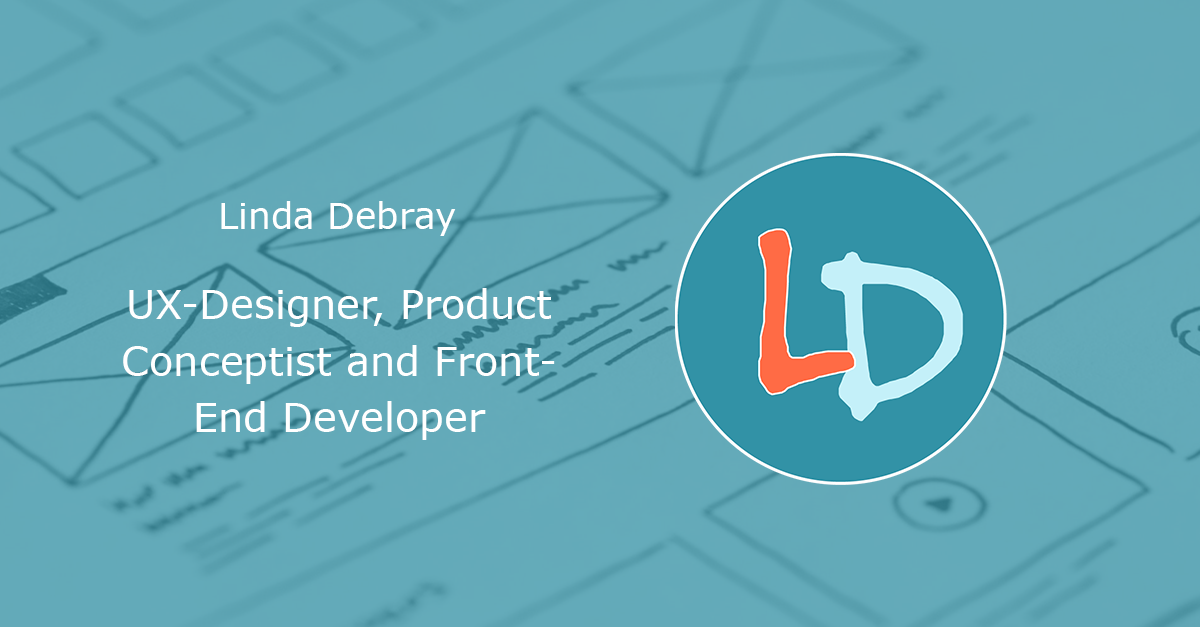
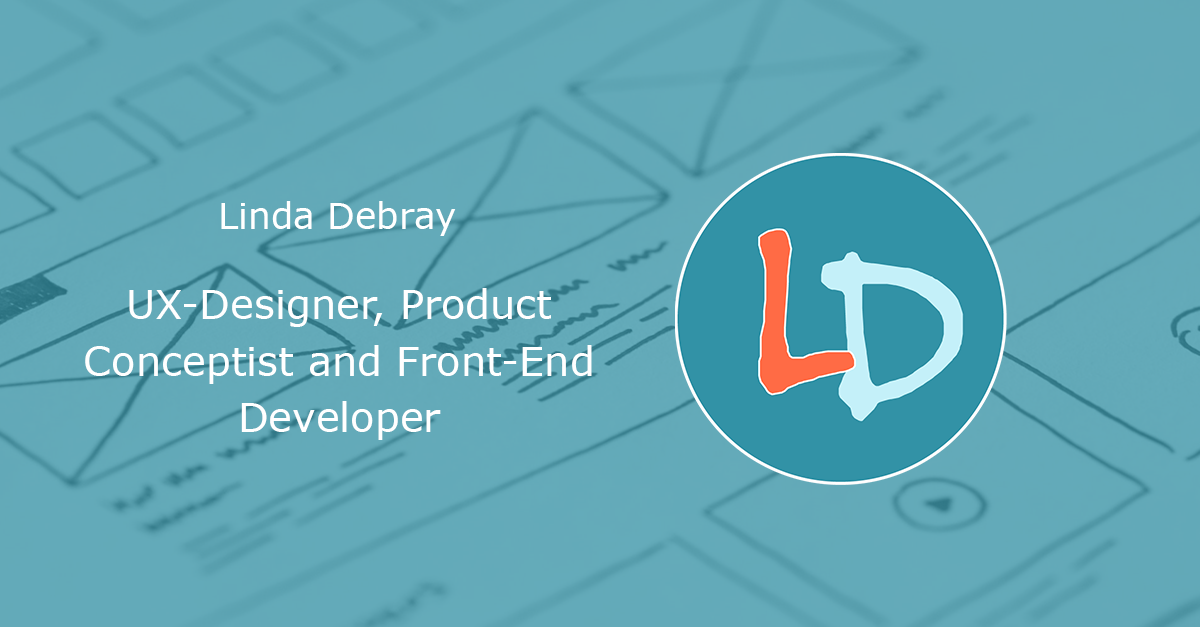
change open graph image, add german open graph content

Changed region(s): [[0.0617, 0.5455, 0.4933, 0.6061], [0.1542, 0.6364, 0.4008, 0.697]]

diff --git a/index.html b/index.html
@@ -16,7 +16,7 @@
   <meta property="og:title" content="Lindas Portfolio">
   <meta property="og:image" content="https://lindade.github.io/img/open-graph-image.png">
   <meta property="og:description" content="My Github page to showcase some example projects. I also designed and implemented this portfolio
-    page with HTML, CSS und JavaScript. Using Bootstrap 4 it is fully responsive. Try out the mobile and desktop
+    page with HTML, CSS and JavaScript. Using Bootstrap 4 it is fully responsive. Try out the mobile and desktop
     view as the project section adapts its usability to optimise the user experience for different device sizes.">
   <meta property="og:url" content="https://lindade.github.io/">
   <meta name="twitter:card" content="summary_large_image">
@@ -140,7 +140,7 @@
         <div class="col">
           <h2 class="text-white">Projects</h2>
           <p class="text-white">Below is a list of some of my example projects. I also designed and implemented this
-            portfolio page from scratch with HTML, CSS und JavaScript. Using Bootstrap 4 it is fully responsive. Try out
+            portfolio page from scratch with HTML, CSS and JavaScript. Using Bootstrap 4 it is fully responsive. Try out
             the mobile and desktop view as the project section adapts its usability to optimise the user experience for
             different device sizes. Check out the code here:</p>
           <a class="btn btn-outline-light btn-lg" target="_blank"

diff --git a/index-de.html b/index-de.html
@@ -13,6 +13,14 @@
   <link rel="stylesheet" href="css/style.css" />
   <link rel="icon" href="img/favicon2.png" sizes="16x16 32x32" type="image/png">
   <title>Lindas Portfolio</title>
+  <meta property="og:title" content="Lindas Portfolio">
+  <meta property="og:image" content="https://lindade.github.io/img/open-graph-image-deutsch.png">
+  <meta property="og:description" content="Meine Github Seite um Beispielprojekte zu präsentieren. Die Seite habe ich
+  selbst gestaltet und mit HTML, CSS und JavaScript implementiert. Durch Bootstrap 4 ist sie komplett responsiv.
+  Es lohnt sich einen Blick auf die Ansicht für Mobilgeräte und Desktops zu werfen, nicht zuletzt weil im Projektabschnitt
+  die Nutzbarkeit angepasst wird, um ein optimales Benutzererlebniss für die verschiedenen Gerätegrößen anzubieten.">
+  <meta property="og:url" content="https://lindade.github.io/">
+  <meta name="twitter:card" content="summary_large_image">
 </head>
 
 <body id="home" data-spy="scroll" data-target="#main-nav">
